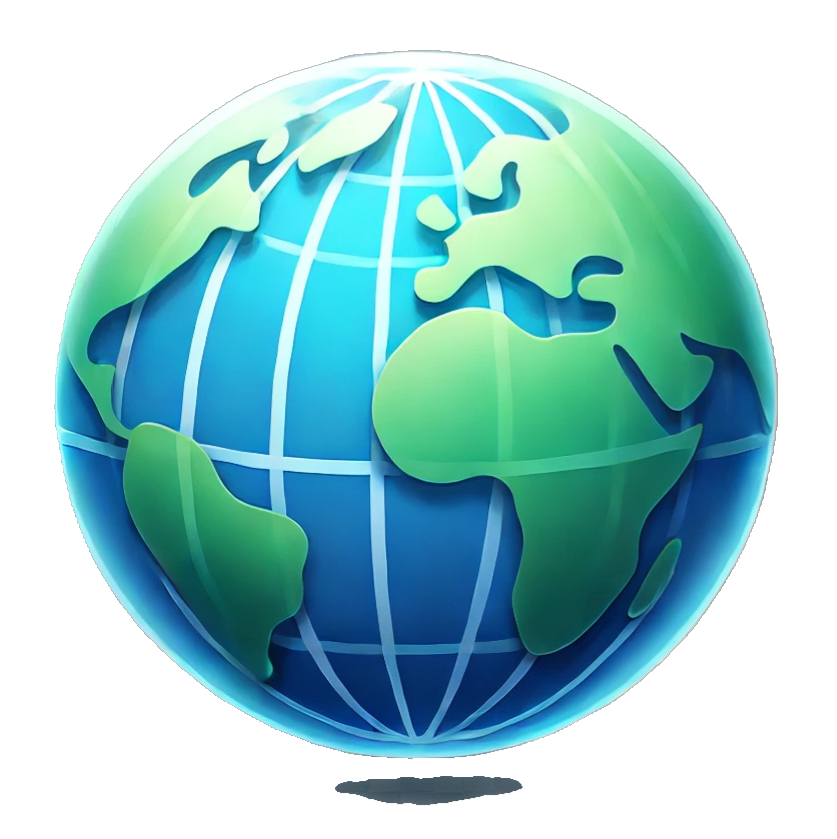
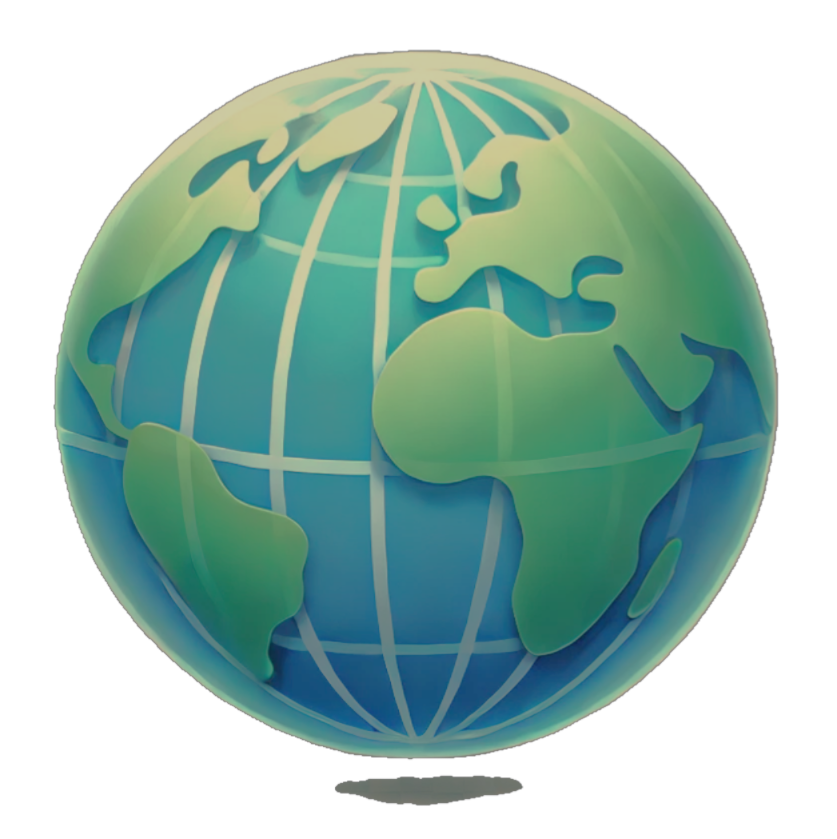
added color theme and passed Google Auth

diff --git a/src/Componenets/NavBar.js b/src/Componenets/NavBar.js
@@ -1,9 +1,15 @@
 'use client';
 
 import { signOutUser } from '@/utils/auth';
-import { Avatar, Dropdown, Navbar } from "flowbite-react";
+import { Avatar, Dropdown, Navbar, DarkThemeToggle, Flowbite } from "flowbite-react";
+import { useAuth } from '@/utils/context/authContext';
+
 
 function MyNavbar() {
+    
+    const { user } = useAuth()
+
+    console.log(user)
 
   return (
         <Navbar fluid rounded>
@@ -16,32 +22,37 @@ function MyNavbar() {
               arrowIcon={false}
               inline
               label={
-                <Avatar alt="User settings" img="https://flowbite.com/docs/images/people/profile-picture-5.jpg" rounded />
+                <Avatar alt="User settings" img={user.photoURL} rounded />
               }
             >
               <Dropdown.Header>
-                <span className="block text-sm">Bonnie Green</span>
-                <span className="block truncate text-sm font-medium">name@flowbite.com</span>
+                <span className="block text-sm">{user.displayName}</span>
+                <span className="block truncate text-sm font-medium">{user.email}</span>
               </Dropdown.Header>
-              <Dropdown.Item>Dashboard</Dropdown.Item>
-              <Dropdown.Item>Settings</Dropdown.Item>
-              <Dropdown.Item>Earnings</Dropdown.Item>
+              <Dropdown.Item>NoWORK</Dropdown.Item>
+              <Dropdown.Item>NoWORK</Dropdown.Item>
+              <Dropdown.Item>NoWORK</Dropdown.Item>
               <Dropdown.Divider />
               <div onClick={signOutUser}>
                 <Dropdown.Item>Sign out</Dropdown.Item>
               </div>
               
             </Dropdown>
+
+            <Flowbite>
+                <DarkThemeToggle />
+            </Flowbite>
+
             <Navbar.Toggle />
           </div>
           <Navbar.Collapse>
             <Navbar.Link href="#" active>
-              Home
+            NoWORK
             </Navbar.Link>
-            <Navbar.Link href="#">About</Navbar.Link>
-            <Navbar.Link href="#">Services</Navbar.Link>
-            <Navbar.Link href="#">Pricing</Navbar.Link>
-            <Navbar.Link href="#">Contact</Navbar.Link>
+            <Navbar.Link href="#">NoWORK</Navbar.Link>
+            <Navbar.Link href="#">NoWORK</Navbar.Link>
+            <Navbar.Link href="#">NoWORK</Navbar.Link>
+            <Navbar.Link href="#">NoWORK</Navbar.Link>
           </Navbar.Collapse>
         </Navbar>
   );

diff --git a/src/app/layout.js b/src/app/layout.js
@@ -1,9 +1,8 @@
-import { Oswald } from 'next/font/google';
+import { Poppins } from 'next/font/google';
 import "@/style/globals.css";
 import ClientProvider from '@/utils/context/ClientProvider';
-import { ThemeModeScript } from "flowbite-react";
 
-const oswald = Oswald({ subsets: ['latin'], weight: ['400', '700'] });
+const poppins = Poppins({ subsets: ['latin'], weight: ['400', '700'] });
 
 export const metadata = {
   title: "Little Globe",
@@ -14,18 +13,15 @@ export default function RootLayout({ children }) {
   return (
     <html lang="en">
 
-      <head>
-        <ThemeModeScript />
-      </head>
-
       <body
-        className={`${oswald.className}`}
+        className={`${poppins.className}`}
       >
         <ClientProvider>
         {children}
         </ClientProvider>
 
       </body>
+
     </html>
   );
 }
